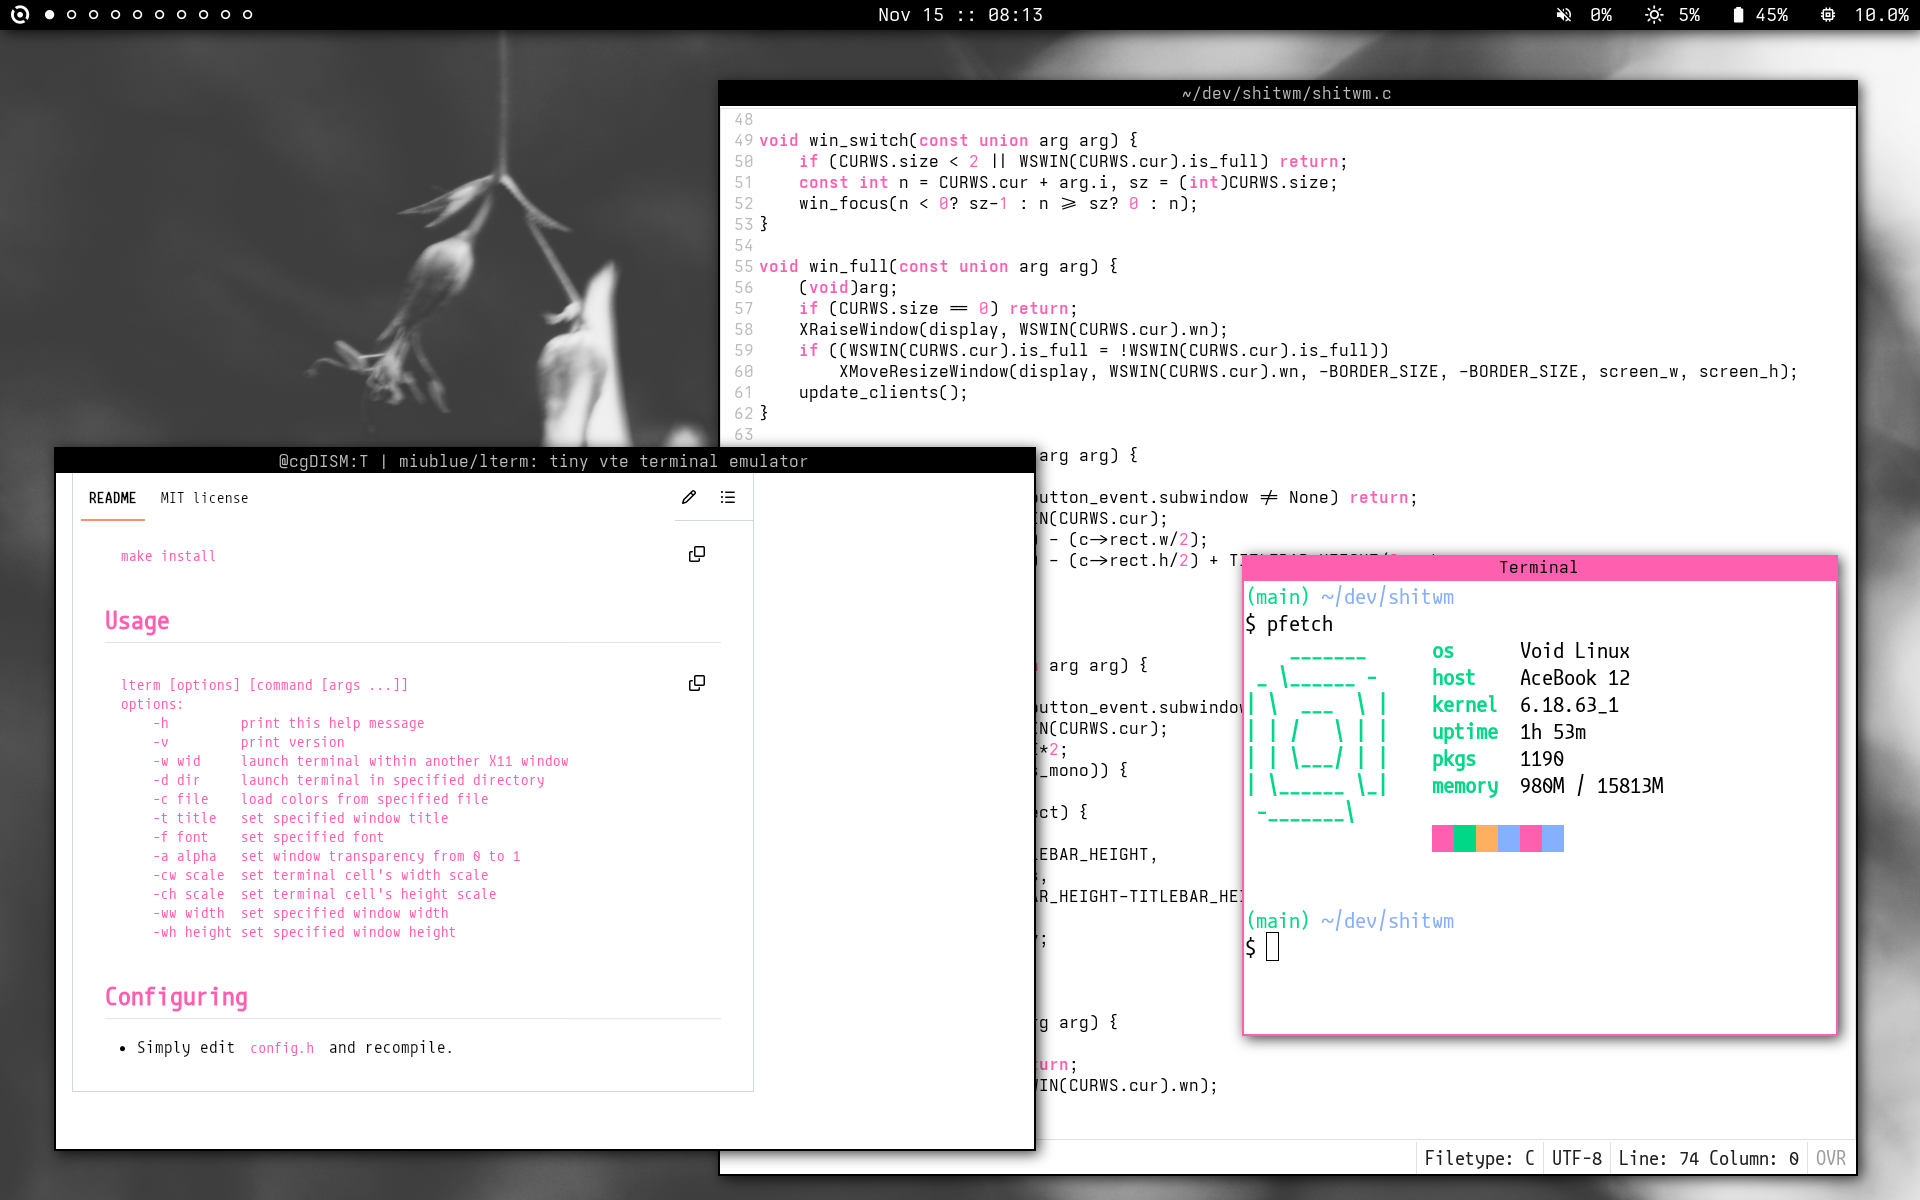
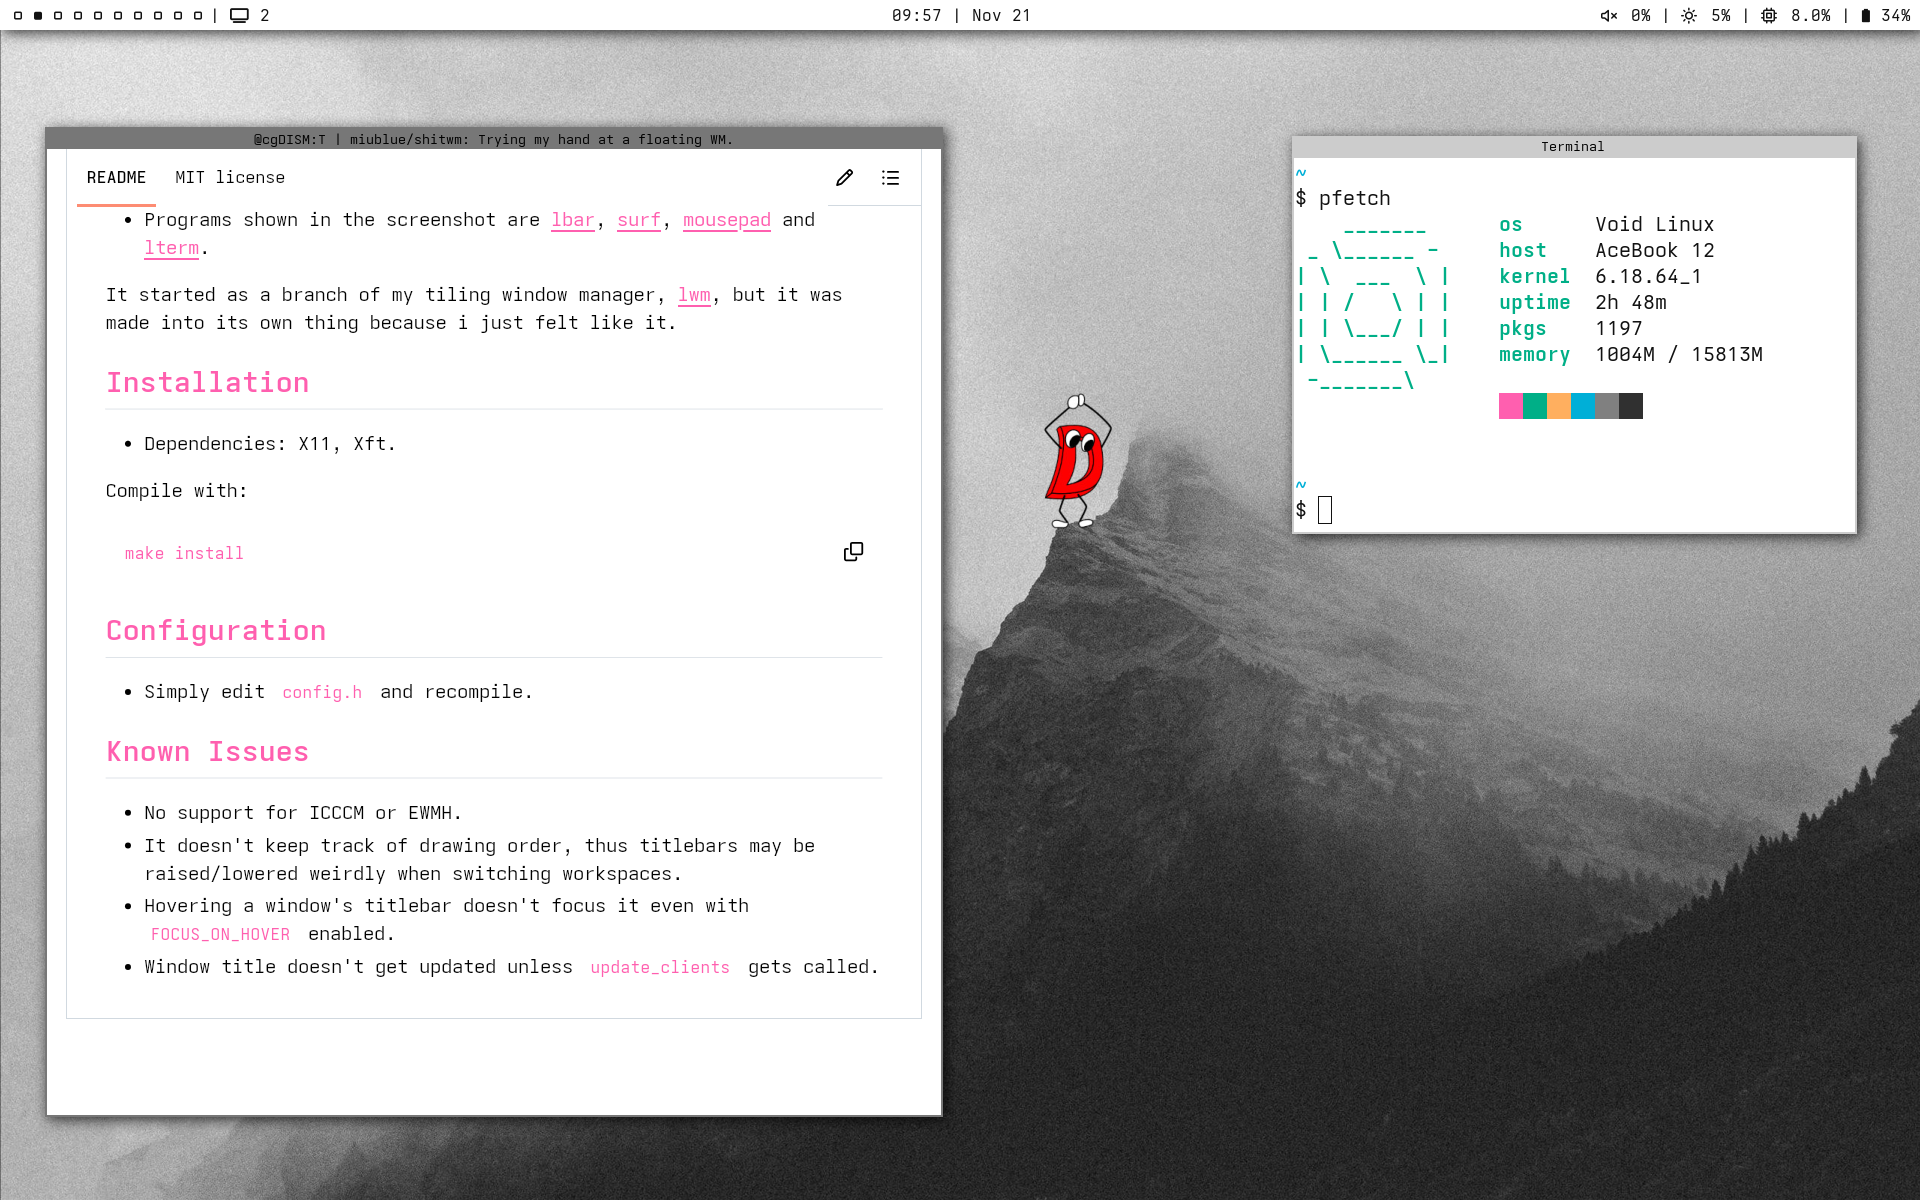
update preview image and README

diff --git a/README.md b/README.md
@@ -3,8 +3,7 @@
 <img src="./preview.png"/>
 
 - Programs shown in the screenshot are [lbar](https://github.com/miublue/lbar),
-[surf](https://surf.suckless.org), [mousepad](https://github.com/codebrainz/mousepad)
-and [lterm](https://github.com/miublue/lterm).
+[surf](https://surf.suckless.org) and [lterm](https://github.com/miublue/lterm).
 
 It started as a branch of my tiling window manager, [lwm](https://github.com/miublue/lwm),
 but it was made into its own thing because i just felt like it.
@@ -22,6 +21,5 @@ Compile with:
 ## Known Issues
 - No support for ICCCM or EWMH.
 - It doesn't keep track of drawing order, thus titlebars may be raised/lowered weirdly when switching workspaces.
-- Hovering a window's titlebar doesn't focus it even with `FOCUS_ON_HOVER` enabled.
 - Window title doesn't get updated unless `update_clients` gets called.
 
